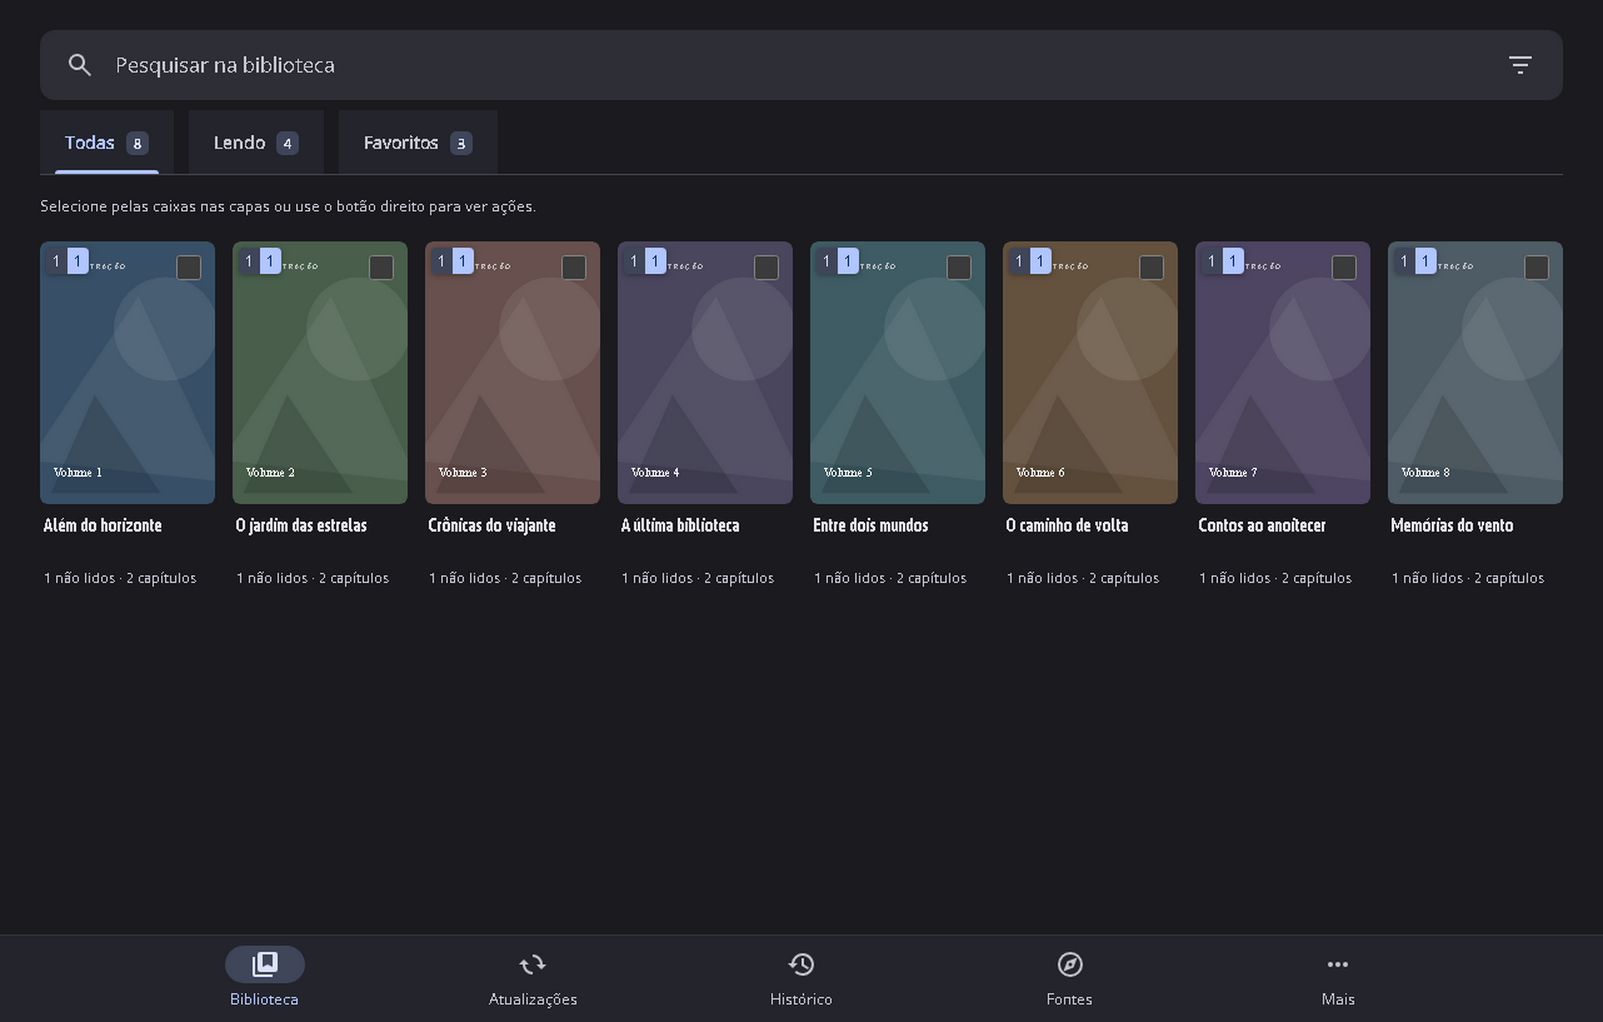
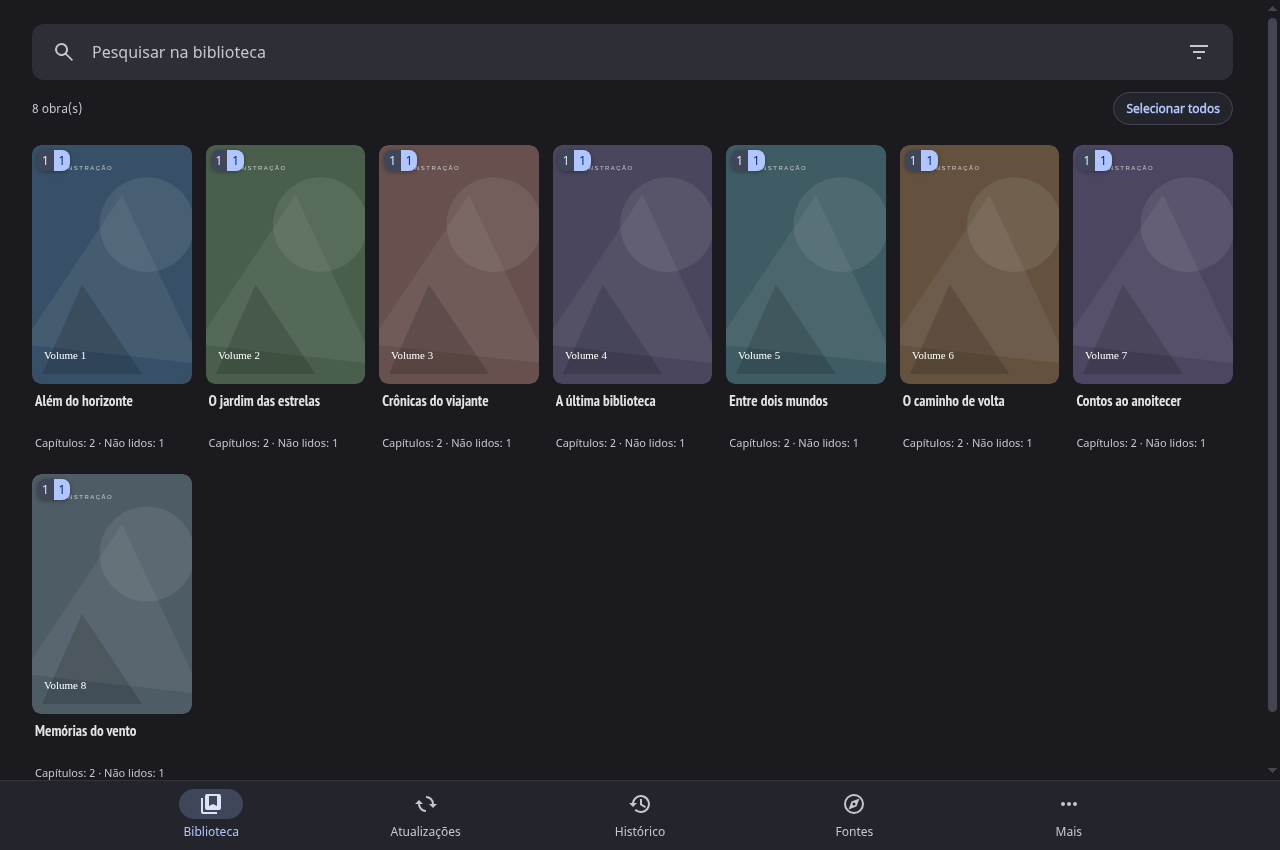
docs(desktop): document Linux pre-stable validation and add current screenshots [skip ci]

diff --git a/desktop/README.md b/desktop/README.md
@@ -1,4 +1,4 @@
-# LNReader Desktop — versão beta para Windows e Linux
+# LNReader Desktop
 
 Port para Windows 10/11 e Linux usando Electron. A interface desktop é nova,
 adaptada para mouse, teclado e telas maiores. Em janelas largas, os detalhes da
@@ -9,14 +9,41 @@ o painel de filtros oferece ordem inversa e ordenação por nome/número.
 As opções para definir a direção
 da fonte e ler desde o início também ficam nesse painel. O código Android antigo continua acessível no histórico Git; a `main` agora contém somente o projeto Desktop.
 
-Versão atual: **0.4.5 Beta (Windows e Linux)**. Consulte as [notas de lançamento](docs/RELEASE_NOTES_0.4.5.md).
+Versão atual: **0.4.5 Beta (Windows e Linux)**. A `main` é uma **candidata a pré-estável no Linux** após testes locais em Debian 13 KDE Plasma/Wayland; ainda não foi publicada uma versão Stable. Consulte as [notas de lançamento](docs/RELEASE_NOTES_0.4.5.md).
+
+[Relatório de validação para pré-estável Linux](docs/PREESTAVEL-LINUX.md).
+
+## Capturas de tela
+
+Capturas **reais do Electron no Debian 13**, geradas por testes gráficos em 14/11/2026 com dados demonstrativos. O visual e as fontes podem variar de acordo com tema, versão e sistema.
+
+| Biblioteca e filtros | Detalhes e capítulos |
+| :---: | :---: |
+| ![Biblioteca do Reader Desktop com capas, filtros e navegação](docs/screenshots/desktop-library.png) | ![Detalhes de uma obra e capítulos em duas colunas](docs/screenshots/desktop-novel.png) |
+| **Leitura com controles** | **Configurações** |
+| ![Leitor do Reader Desktop e controles de leitura](docs/screenshots/desktop-reader.png) | ![Tela de configurações](docs/screenshots/desktop-settings.png) |
+| **Filtros da biblioteca** | **Diagnósticos e relatórios** |
+| ![Filtros de categoria, estado e ordenação](docs/screenshots/desktop-filters.png) | ![Erros recentes, exportação de relatório e histórico](docs/screenshots/desktop-diagnostics.png) |
+
+## Situação da pré-estabilidade no Linux
+
+| Área | Verificação local em Debian 13 KDE Plasma/Wayland |
+| :--- | :--- |
+| Código e interface | `npm run test:all`: 215 testes unitários aprovados, 1 opcional ignorado e testes gráficos/jornadas aprovados |
+| Instaladores | `npm run dist:linux` gerou AppImage e `.deb` amd64; ambos iniciaram com `--disable-gpu` em perfis descartáveis (o `.deb` foi extraído, sem instalação no sistema) |
+| Backup do aplicativo empacotado | Worker funcionou a partir de `app.asar`; exportação/importação e preferências preservadas |
+| Volume | 6.000 obras, 92.985 capítulos, 474 MiB de dados e duas restaurações com verificação SHA-256 |
+| Limite histórico | Arquivo offline de 530 MiB exportado e restaurado por streaming sem limite de 512 MiB |
+| Pendências | Instalação do `.deb` via gerenciador de pacotes; outras distribuições, sessão X11 e backups reais variados do LNReader Android |
+
+Os testes usam perfis temporários e arquivos sintéticos. **Pré-estável não significa livre de falhas:** use cópias dos backups importantes, sobretudo na primeira migração entre Android e Desktop. A versão Windows permanece Beta e não foi revalidada nesta rodada.
 
 A interface utiliza uma cópia versionada da paleta original,
 em `vendor/lnreader/src/theme/md3/defaultTheme.ts`, e as fontes
 Noto Sans, PT Sans e PT Serif armazenadas dentro de `vendor/lnreader/assets/`.
 Esse conjunto é independente da pasta Android na compilação. A navegação, filtros de categorias, contadores nas
 capas, ícones das fontes e leitor em tela inteira seguem o visual do Android.
-Os backups ficam em **Mais → Backups e ajustes**.
+Os backups ficam em **Mais → Backups**.
 A revisão das regras de funcionamento do Android está em
 [`docs/COMPATIBILIDADE-ORIGINAL.md`](./docs/COMPATIBILIDADE-ORIGINAL.md), com os
 arquivos originais consultados, adaptações, testes e diferenças ainda pendentes.
@@ -71,7 +98,7 @@ terceiros podem conter informações inesperadas.
 
 ## Executar a partir do código
 
-Requer Node.js 24 e npm. Na pasta `desktop`:
+Requer Node.js e npm. O fluxo foi executado localmente com **Node.js 20.19.2** e **npm 9.2.0**; versões futuras precisam de validação própria. Na pasta `desktop`:
 
 ```sh
 npm ci
@@ -110,12 +137,17 @@ Windows/Ubuntu. A publicação de releases é condicionada a jobs específicos;
 artefatos de teste não equivalem a instaladores distribuídos. Há ainda
 workflows de portabilidade, preparação Linux e stress, com gatilhos próprios.
 
-**Estado em 13/11/2026:** as execuções mais recentes da `main` terminaram
-em falha após poucos segundos, sem passos de job disponíveis. Não há confirmação
-de que o código reorganizado tenha passado pelo build e por todos os testes.
-Consulte o [GitHub Actions](https://github.com/GuilhermeLourenceto/lnreader-desktop/actions)
-e o [guia Linux](docs/CONTINUAR-NO-LINUX.md). A instalação em Linux real
-continua exigindo testes em X11 e Wayland; os binários não são assinados.
+**Validação local de 14/11/2026:** a `main` compilou no Debian 13 KDE Plasma/Wayland,
+com `npm run test:all`, `npm run dist:linux`, execução do AppImage em perfil
+isolado com `--disable-gpu` e teste do worker de backup dentro do ASAR
+aprovado. O pacote `.deb` foi gerado, inspecionado e seu executável iniciou
+após extração em pasta temporária (com `--disable-gpu`). A instalação no sistema
+com `dpkg` **não foi realizada**. O teste `apt-get -s install` confirmou que o
+gerenciador resolveria as dependências.
+Esse resultado é independente do [GitHub Actions](https://github.com/GuilhermeLourenceto/lnreader-desktop/actions):
+não implica CI aprovado, assinatura digital ou suporte confirmado em todas as
+distribuições, sessões X11 ou máquinas Windows. Consulte também o
+[guia Linux](docs/CONTINUAR-NO-LINUX.md).
 
 ## Estrutura independente e código original reaproveitado
 
@@ -177,8 +209,8 @@ virtualização de cartões: apenas as linhas visíveis e uma pequena margem
 ficam montadas no renderer. O grid mantém capas, badges, seleção, pesquisa,
 categorias e menus de contexto. Listas pequenas usam a renderização anterior.
 Os metadados das obras e capítulos permanecem em memória, portanto a
-virtualização não garante um tamanho fixo de RAM. O projeto possui um teste gráfico com 10 mil obras e 200 mil capítulos,
-mas seu resultado atual depende de executar novamente a suíte.
+virtualização não garante um tamanho fixo de RAM. O projeto possui teste gráfico com 10 mil obras e 200 mil capítulos,
+aprovado localmente no Debian 13 durante a rodada de 14/11/2026.
 
 ## Biblioteca, leitura e backups
 
@@ -279,15 +311,24 @@ Mantenha a pasta `content/` junto desses arquivos; os índices novos dependem de
 ## Validação
 
 ```sh
-npm run build
-npm test
-npm run test:smoke
-npm run test:pagination
-npm run test:reader
+npm run test:all       # build, lint, testes unitários e testes Electron
+npm run dist:linux     # gerar AppImage e .deb no Linux
 ```
 
+Para habilitar também o teste de um arquivo offline de 530 MiB (mais lento e com
+uso temporário de disco), execute:
+
+```sh
+READER_LARGE_BACKUP_TEST=1 node --test test/zip-streaming.test.cjs
+```
+
+Os testes Electron precisam de uma sessão gráfica (X11 ou Xwayland). O teste
+`test:diagnostics` verifica mensagens simples, exportação privada de relatório
+e geometria da tela em larguras de 800 e 1280 pixels.
+
 Os testes verificam ZIP antigo/atual, ida e volta de dados/arquivos/progresso,
-backup parcial e entradas inválidas. O teste Electron usa uma fonte de teste
+backup parcial, entradas inválidas, dados opcionais ausentes, rejeição de ZIPs
+corrompidos e preservação das preferências escolhidas pelo usuário. O teste Electron usa uma fonte de teste
 local e uma pasta temporária própria: instala o plugin pelo carregador original,
 abre uma obra, lê e salva um capítulo, rejeita scripts no HTML e repete a leitura
 offline. A janela de teste fica oculta e fecha ao terminar.

diff --git a/desktop/docs/PREESTAVEL-LINUX.md b/desktop/docs/PREESTAVEL-LINUX.md
@@ -1,0 +1,53 @@
+# Reader Desktop — validação pré-estável para Linux
+
+**Data:** 14/11/2026
+
+**Código:** Reader Desktop 0.4.5 Beta, branch `main` (rodada de pré-estabilização).
+
+**Ambiente principal:** Debian 13, KDE Plasma/Wayland com Xwayland, Linux x86-64, Node.js 20.19.2 e npm 9.2.0.
+
+## Resultado
+
+**Candidata a pré-estável no ambiente testado**, ainda não uma release `Stable`. A suíte de testes, os instaladores e os backups passaram nas verificações abaixo. Isso não certifica todos os ambientes Linux nem substitui testes com arquivos pessoais reais.
+
+| Verificação | Resultado |
+| --- | --- |
+| `npm run test:all` | Aprovado: build, lint, formatação, 215 testes unitários aprovados, 1 opcional ignorado, jornadas de UI no Electron e diagnósticos |
+| `npm run dist:linux` | Aprovado: `.AppImage` amd64 e `.deb` amd64 produzidos |
+| AppImage executado diretamente | Aprovado com `--disable-gpu`, KDE/Wayland e perfil temporário: processo iniciou, permaneceu ativo e criou `library.json` |
+| `.deb` | Estrutura, dependências e entrada `.desktop` verificadas. Execução bem-sucedida após extração isolada com `--disable-gpu`. Simulação `apt-get -s install` sem conflitos; instalação com `dpkg` não efetuada |
+| Worker de backup dentro do ASAR | Aprovado em `test/packaged-backup-smoke.cjs`, sem carregar código-fonte externo do worker |
+| Backup de 530 MiB | Aprovado: exportação/importação de um capítulo offline maior que 512 MiB, por streaming (10/10 casos da suíte ZIP com teste pesado ativado) |
+| Backup sintético quase no limite | Aprovado em 21,5 s: 6.000 obras, 92.985 capítulos, 474 MiB de conteúdo e 374 arquivos, ZIP de 476,11 MiB |
+| Backup quase no limite: segurança | Duas importações, hashes SHA-256 de todos os arquivos, ordem e progresso conferidos; metadados deliberadamente danificados recuperados do backup |
+| Erros e diagnósticos | Mensagens curtas, exportação `.txt`, ocultação de dados privados e alinhamento em 800/1280 px, testados no Electron |
+| Interface | Biblioteca, capítulos, leitura, busca, histórico, configurações, fontes e operações de recuperação em resoluções compactas/largas |
+
+O teste sintético quase no limite observou **408,3 MiB de pico de RSS no processo Node principal**, sem incluir necessariamente todos os processos filhos, a interface ou a memória de GPU. Não é uma medição de consumo total do aplicativo.
+
+As capturas da interface foram produzidas por testes Electron com conteúdo fictício e estão em [Capturas no README](../README.md#capturas-de-tela).
+
+## Como reproduzir
+
+Na pasta `desktop`:
+
+```bash
+npm ci
+npm run setup
+npm run test:all
+npm run dist:linux
+READER_LARGE_BACKUP_TEST=1 node --test test/zip-streaming.test.cjs
+node test/heavy-backup-stress.cjs --profile=near-limit
+```
+
+Para os testes Electron, execute em uma sessão gráfica X11/Xwayland acessível. No ambiente testado, a sessão KDE Wayland disponibilizou o Xwayland `DISPLAY=:1`; não é uma configuração universal e não deve ser fixada em scripts do projeto.
+
+## Limitações antes de considerar `Stable`
+
+- **Instalação e remoção reais do novo `.deb`:** nesta rodada o pacote foi extraído e executado, mas não instalado com privilégios de administrador.
+- **Distribuições e servidores gráficos:** testar outras versões do Debian, Ubuntu/Fedora, X11 e ambientes com Wayland sem a mesma configuração. As inicializações dos binários empacotados usaram `--disable-gpu`; aceleração gráfica nativa em GPUs/driver diferentes ainda não foi validada.
+- **Backups Android reais:** aumentar a coleção de testes com arquivos efetivamente exportados por versões diferentes do LNReader Android, removendo dados privados e mantendo os originais intactos.
+- **Uso prolongado:** observar sessões contínuas e relatos de usuários, principalmente downloads, fontes de terceiros, atualizações e restaurações após interrupções.
+- **Distribuição:** os binários locais não estão assinados; sucesso local não implica aprovação de CI nem validação de uma release pública.
+
+**Critério sugerido para promover a `Stable`:** realizar instalação limpa e upgrade do `.deb`, confirmar AppImage em outra distribuição, importar backups Android reais de versões distintas, verificar logs/privacidade e manter um ciclo de uso real sem regressões críticas de perda de dados.

diff --git a/desktop/CHANGELOG.md b/desktop/CHANGELOG.md
@@ -2,6 +2,8 @@
 
 ## Em desenvolvimento na `main` (após o código 0.4.5 Beta)
 
+- Validação candidata a pré-estável no Debian 13 KDE Plasma/Wayland: build, suíte completa de testes, pacotes AppImage/DEB, inicialização dos executáveis empacotados em perfis descartáveis, worker dentro do ASAR, backup de 530 MiB e teste de 474 MiB com duas restaurações. README atualizado com seis capturas reais e [relatório de validação](docs/PREESTAVEL-LINUX.md). Ainda sem nova versão Stable.
+
 - Revisão de robustez no Linux: testes de backups Android v2 para configurações ausentes/desconhecidas/inválidas, ZIPs danificados e limpeza segura de importações parciais; erros mostrados de forma simples, com opção direta de exportar relatório privado. Diagnósticos compactos com detalhes técnicos recolhidos; layout validado em 800/1280 px e teste Electron incluído em `test:all`.
 
 - Correções validadas localmente no Linux: import de obras ajustado após a modularização; backups ZIP64 gerados por streaming agora abrem também nos leitores ZIP legados; auditoria de traduções completada para diagnósticos em dez idiomas; testes de exportação e temporizador alinhados ao comportamento de preservação de preferências; build deixa de sobrescrever os ícones versionados.
